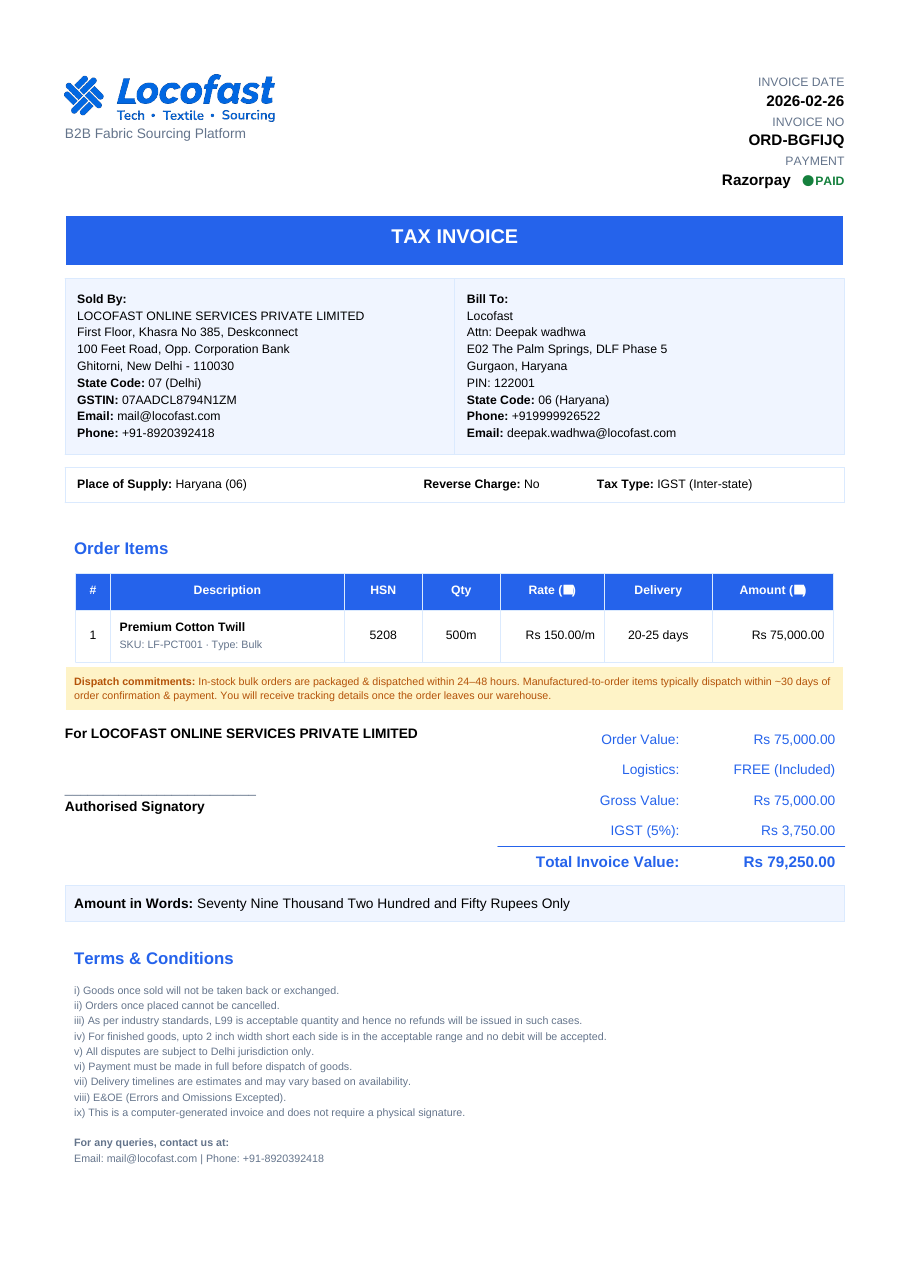
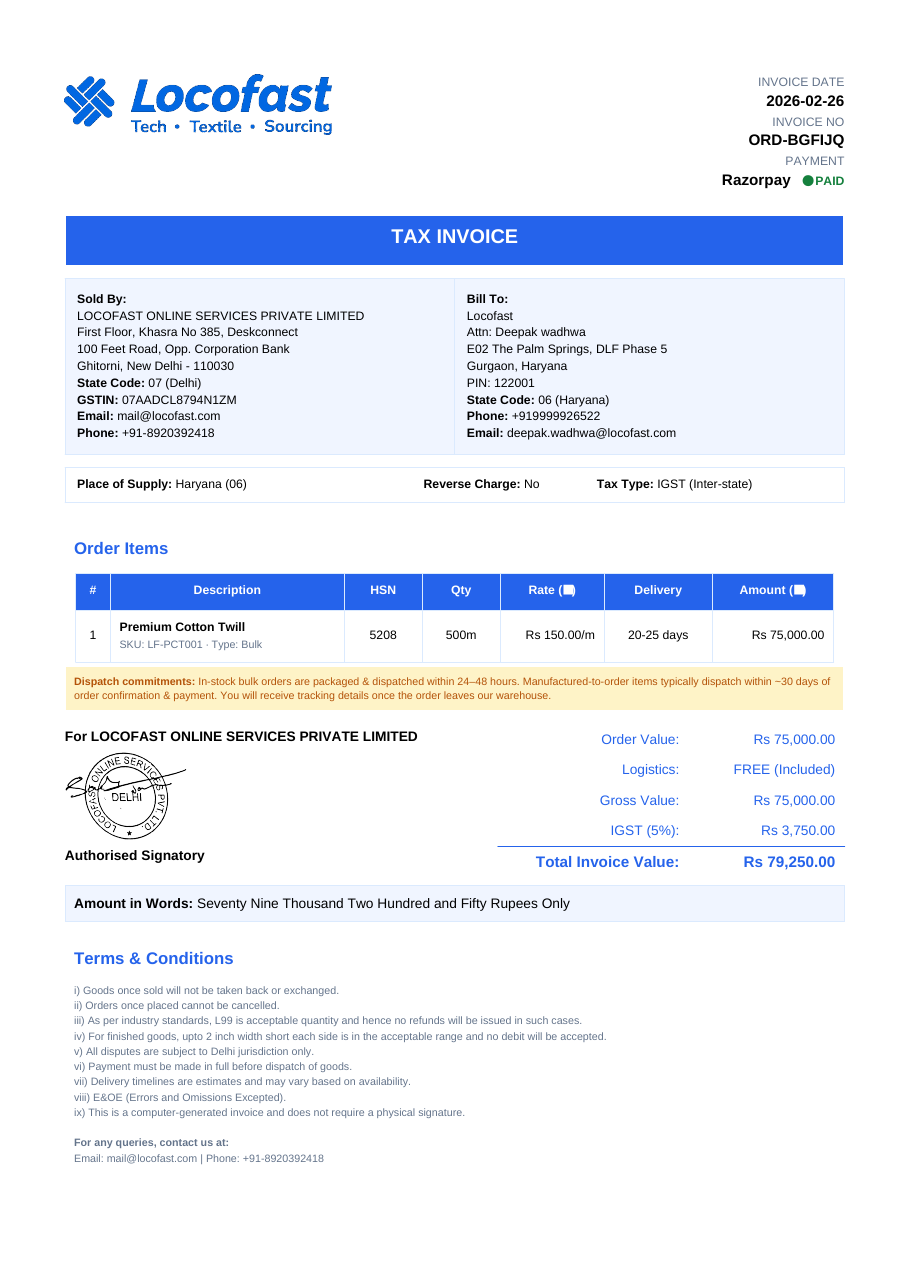
auto-commit for aa4b4772-e988-4744-bd74-348d2a9bbd92

Changed region(s): [[0.0615, 0.5594, 0.4615, 0.6838], [0.0615, 0.0622, 0.3692, 0.1243]]

diff --git a/backend/orders_router.py b/backend/orders_router.py
@@ -4092,33 +4092,16 @@ def generate_invoice_pdf(order: dict) -> io.BytesIO:
         if pay_status == 'PAID' else
         f'<font color="#b45309" size="8"><b>● {pay_status}</b></font>'
     )
-    tagline_para = Paragraph(
-        '<font color="#64748b" size="9">B2B Fabric Sourcing Platform</font>',
-        ParagraphStyle('lb', parent=styles['Normal'], fontSize=10, leading=14)
-    )
-    logo_drawing = _get_logo_drawing(target_height_mm=11)
+    logo_drawing = _get_logo_drawing(target_height_mm=14)
     if logo_drawing is not None:
-        # Stack the logo on top of the tagline so the brand mark replaces
-        # the legacy "LOCOFAST" wordmark on the top-left of every invoice.
-        left_cell = Table(
-            [[logo_drawing], [tagline_para]],
-            colWidths=[110*mm]
-        )
-        left_cell.setStyle(TableStyle([
-            ('VALIGN', (0, 0), (-1, -1), 'TOP'),
-            ('ALIGN', (0, 0), (-1, -1), 'LEFT'),
-            ('TOPPADDING', (0, 0), (-1, -1), 0),
-            ('BOTTOMPADDING', (0, 0), (-1, 0), 2),
-            ('BOTTOMPADDING', (0, 1), (-1, -1), 0),
-            ('LEFTPADDING', (0, 0), (-1, -1), 0),
-            ('RIGHTPADDING', (0, 0), (-1, -1), 0),
-        ]))
+        # Brand mark replaces the legacy "LOCOFAST" wordmark on the
+        # top-left of every invoice. The tagline "Tech • Textile •
+        # Sourcing" is already part of the logo asset itself, so no
+        # secondary tagline is added below.
+        left_cell = logo_drawing
     else:
-        # Fallback for environments without svglib — keep the wordmark.
-        left_brand = (
-            f'<font color="{BRAND_BLUE}" size="20"><b>LOCOFAST</b></font><br/>'
-            f'<font color="#64748b" size="9">B2B Fabric Sourcing Platform</font>'
-        )
+        # Fallback for environments without svglib/PIL — keep the wordmark.
+        left_brand = f'<font color="{BRAND_BLUE}" size="20"><b>LOCOFAST</b></font>'
         left_cell = Paragraph(left_brand, ParagraphStyle('lb', parent=styles['Normal'], fontSize=10, leading=14))
     right_meta = (
         f'<font color="#64748b" size="8">INVOICE DATE</font><br/>'
@@ -4453,12 +4436,38 @@ def generate_invoice_pdf(order: dict) -> io.BytesIO:
     ]))
 
     # Authorised signatory (left) + totals stack (right), like the mockup.
-    signatory = Paragraph(
-        '<font size="9"><b>For LOCOFAST ONLINE SERVICES PRIVATE LIMITED</b></font><br/><br/><br/>'
-        '<font size="9" color="#64748b">_________________________</font><br/>'
+    # Stamp + signature image is embedded above the "Authorised Signatory"
+    # line so every tax invoice ships with an authentic seal.
+    _sig_path = os.path.join(os.path.dirname(__file__), 'assets', 'signature.png')
+    sig_block_cells = [[Paragraph(
+        '<font size="9"><b>For LOCOFAST ONLINE SERVICES PRIVATE LIMITED</b></font>',
+        ParagraphStyle('SigHead', parent=styles['Normal'], fontSize=9, leading=12, alignment=TA_LEFT)
+    )]]
+    if os.path.exists(_sig_path):
+        # Scale the stamp to a print-friendly footprint (~32mm wide).
+        try:
+            from PIL import Image as PILImage
+            with PILImage.open(_sig_path) as _im:
+                _sw, _sh = _im.size
+            _aspect = _sw / _sh if _sh else 2.0
+        except Exception:  # noqa: BLE001
+            _aspect = 2.0
+        stamp_w = 32 * mm
+        stamp = Image(_sig_path, width=stamp_w, height=stamp_w / _aspect)
+        stamp.hAlign = 'LEFT'
+        sig_block_cells.append([stamp])
+    sig_block_cells.append([Paragraph(
         '<font size="9"><b>Authorised Signatory</b></font>',
-        ParagraphStyle('Sig', parent=styles['Normal'], fontSize=9, leading=12, alignment=TA_LEFT)
-    )
+        ParagraphStyle('SigFoot', parent=styles['Normal'], fontSize=9, leading=12, alignment=TA_LEFT)
+    )])
+    signatory = Table(sig_block_cells, colWidths=[100*mm])
+    signatory.setStyle(TableStyle([
+        ('VALIGN', (0, 0), (-1, -1), 'TOP'),
+        ('LEFTPADDING', (0, 0), (-1, -1), 0),
+        ('RIGHTPADDING', (0, 0), (-1, -1), 0),
+        ('TOPPADDING', (0, 0), (-1, -1), 2),
+        ('BOTTOMPADDING', (0, 0), (-1, -1), 2),
+    ]))
     sig_and_totals = Table([[signatory, totals_table]], colWidths=[100*mm, 80*mm])
     sig_and_totals.setStyle(TableStyle([
         ('VALIGN', (0, 0), (-1, -1), 'TOP'),
